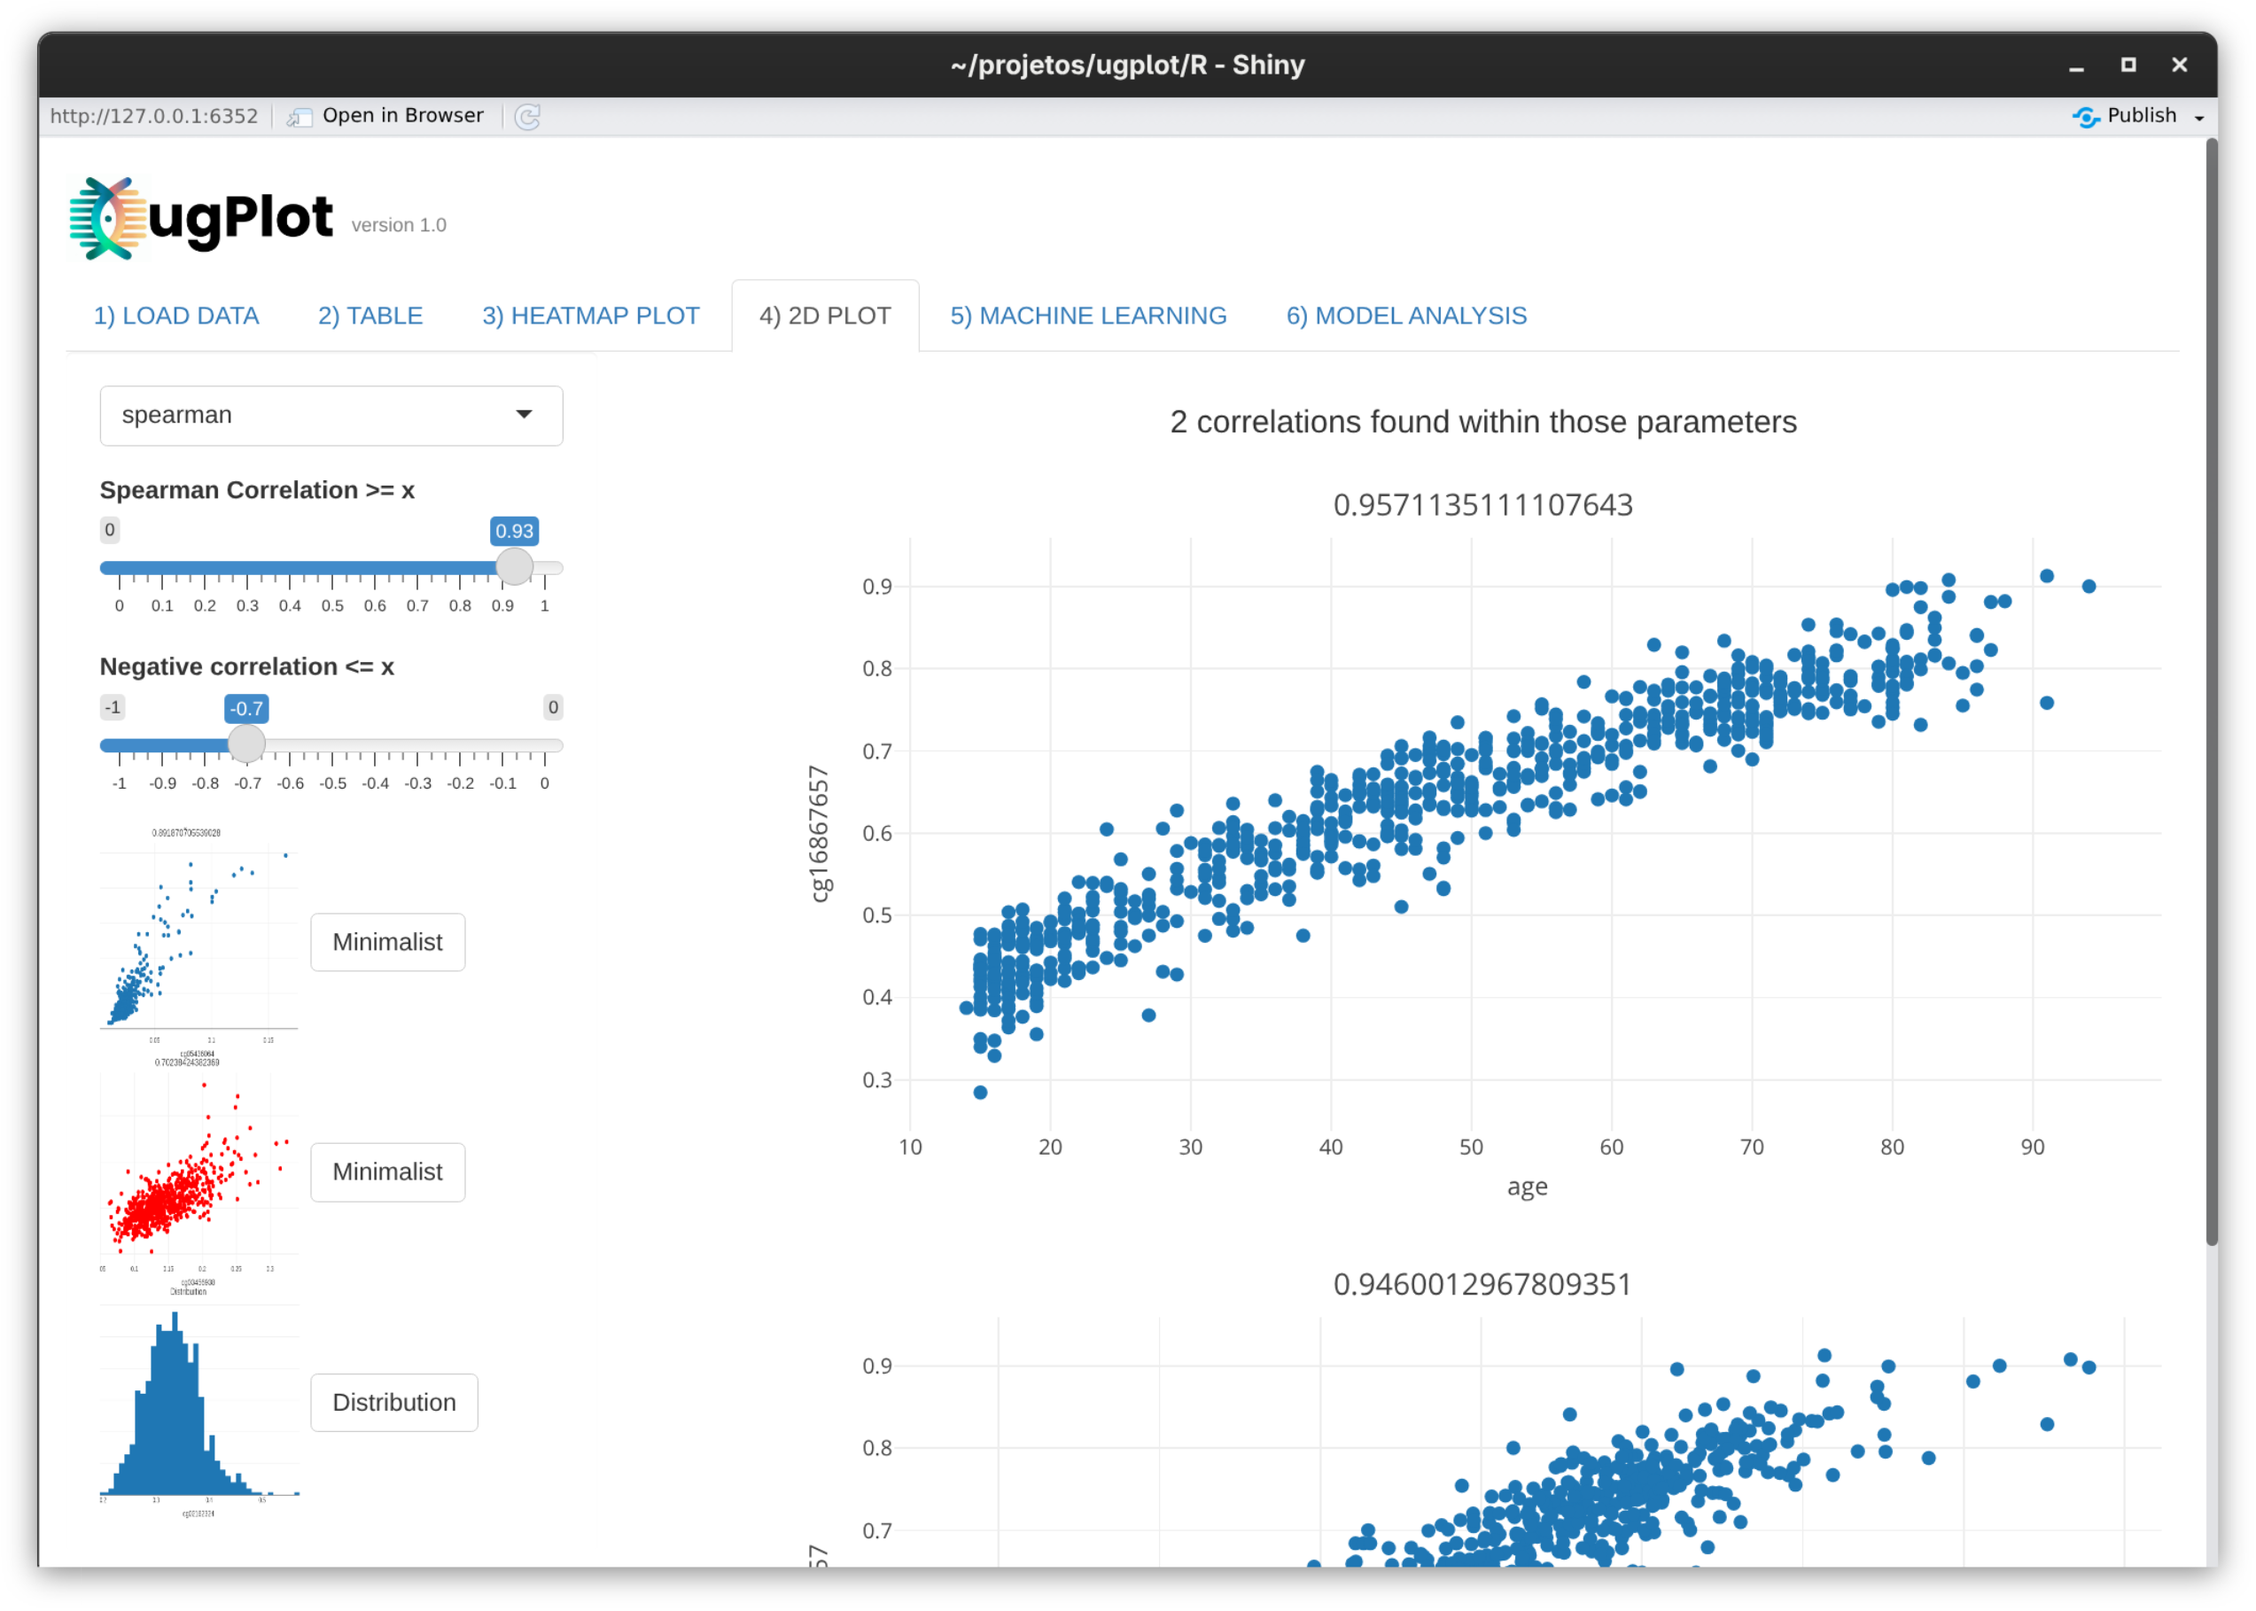
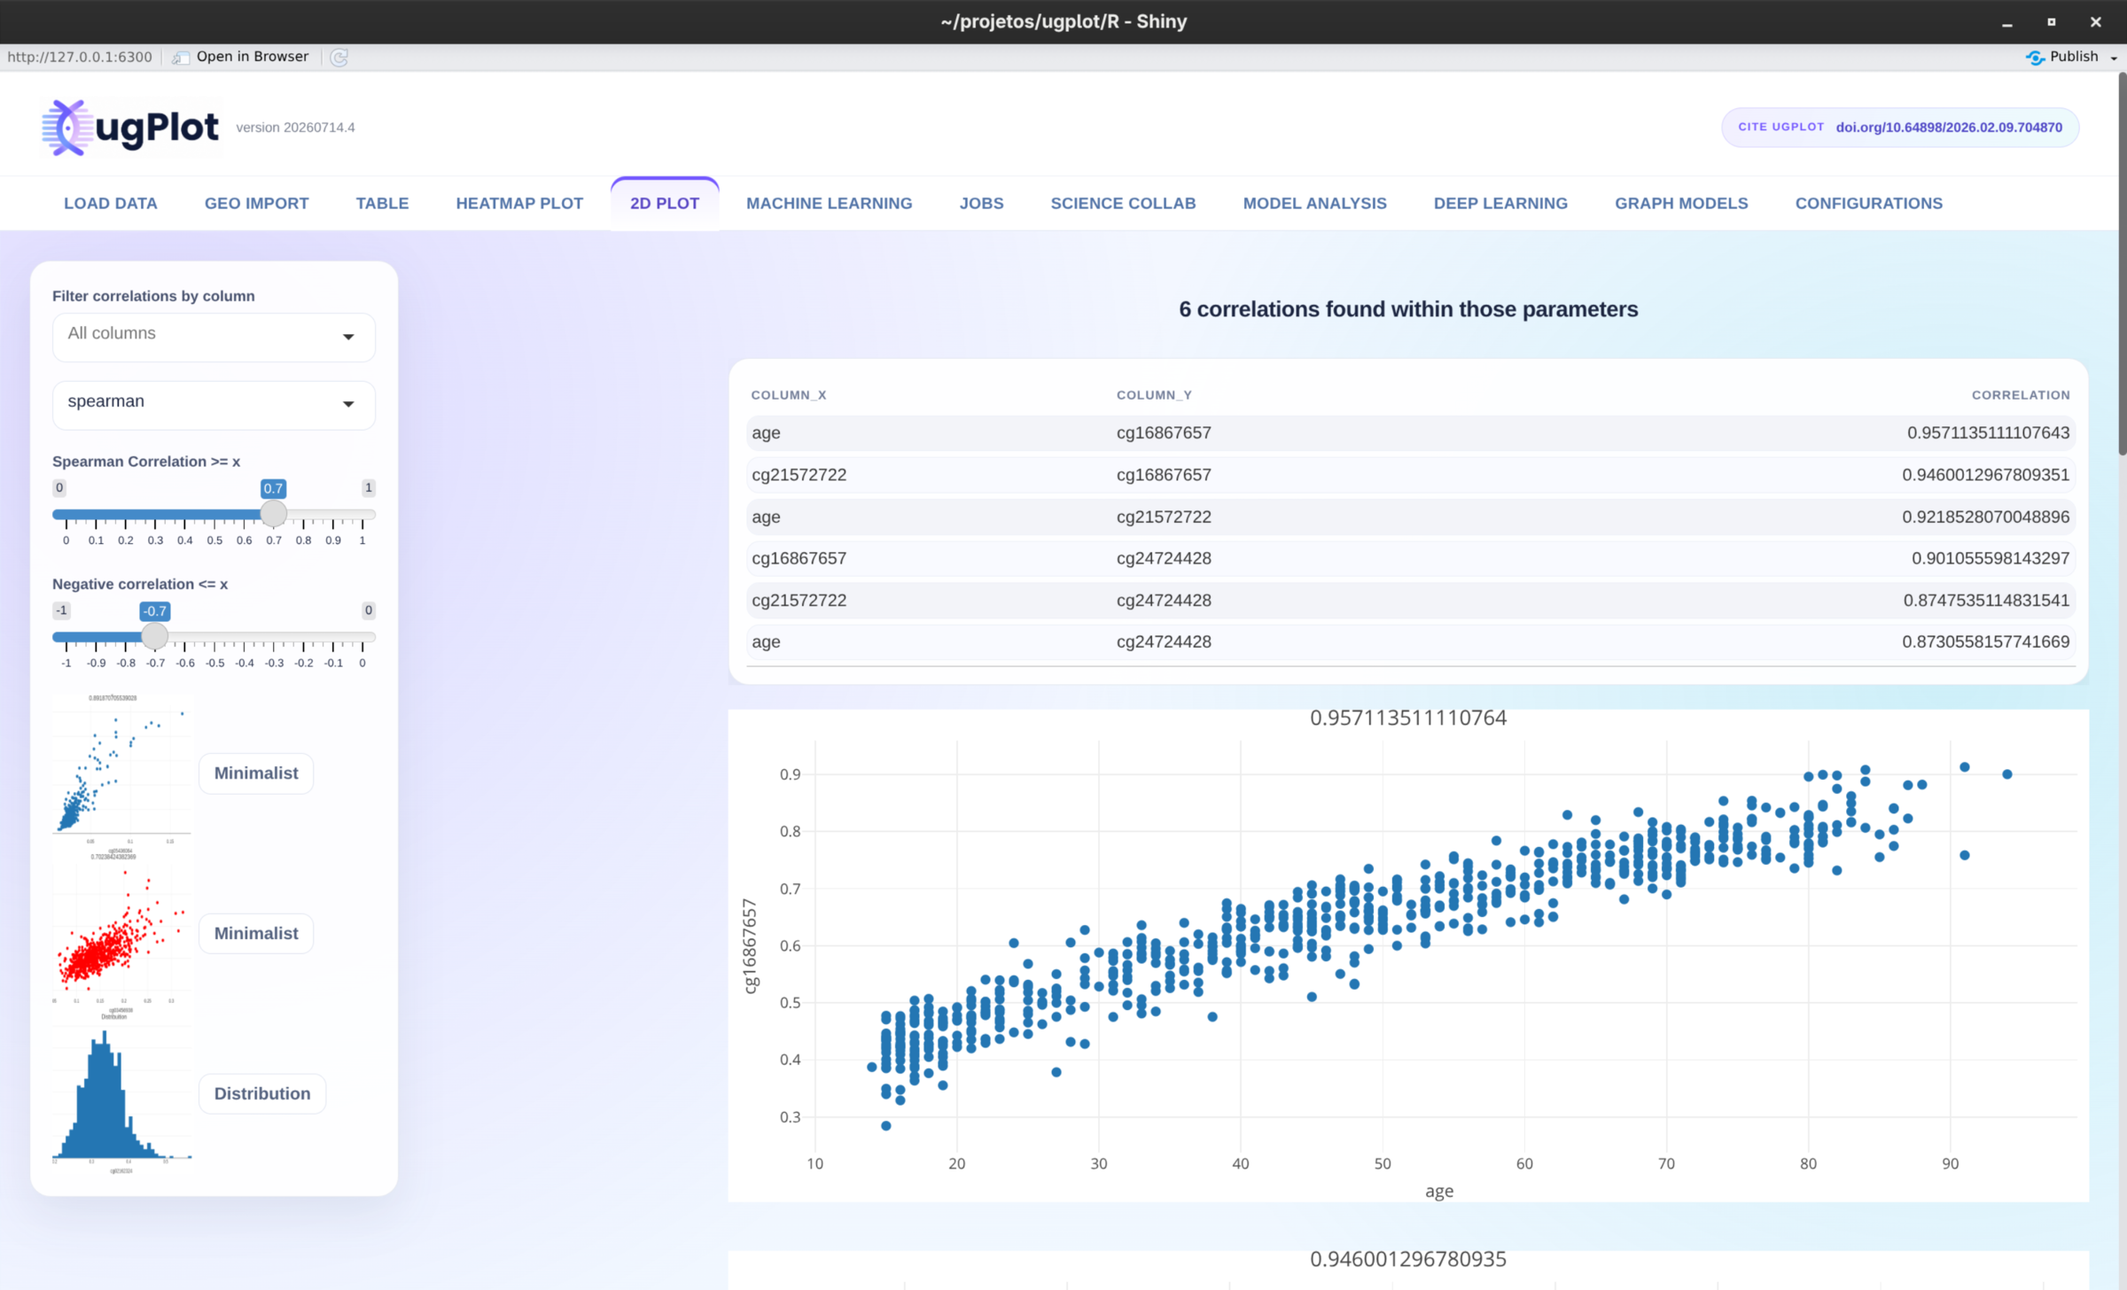
Fix ML model source initialization and refresh manual

diff --git a/README.md b/README.md
@@ -303,7 +303,7 @@ Interpret heatmaps qualitatively. They are not proof of prediction performance, 
 
 ### 4.1 Correlation filtering
 
-![doc6 - 2d correlations](man/img/doc6.png)
+![ugPlot 2D PLOT correlation filtering](man/img/doc6.png)
 
 Use 2D plots when you want to understand pairwise relationships rather than global structure. They are especially useful for spotting a small number of strong feature-target relationships, checking whether correlations are linear, and finding outliers that drive an apparent association.
 
@@ -326,7 +326,7 @@ If a strong correlation appears only because of one or two extreme samples, do n
 
 ### 4.2 Distribution mode example
 
-![doc7 - 2d distribution mode](man/img/doc7.png)
+![ugPlot 2D PLOT distribution mode](man/img/doc7.png)
 
 Use distribution mode to check whether correlations may be driven by skewed ranges/outliers.
 
@@ -338,7 +338,7 @@ Distribution mode is also useful before ML because a target with extreme imbalan
 
 ### 5.1 Core setup
 
-![doc8 - machine learning seeds](man/img/doc8.png)
+![ugPlot MACHINE LEARNING core setup](man/img/doc8.png)
 
 Use MACHINE LEARNING only after the dataset shape is settled. The main question here is not "which model wins once?", but "does any model perform consistently enough to justify further investigation?"
 
@@ -348,6 +348,9 @@ Use MACHINE LEARNING only after the dataset shape is settled. The main question 
   - initial/final training seed,
   - supports repeatability and robustness checks.
 - **Timeout (s)** controls maximum training time.
+- **Auto-skip models in next rounds** avoids repeating models that time out or remain below the selected quality threshold.
+- **Min R2 (0-1)** defines the minimum R² used by auto-skip for regression runs.
+- **Training effort profile** lets you choose between the faster system default and more intensive training profiles when available.
 
 For small exploratory runs, use fewer models or shorter timeouts to check that the setup works. For a result you plan to report, run multiple seeds and prefer models whose performance remains stable. A single high score from one split can be luck, leakage, or class imbalance.
 
